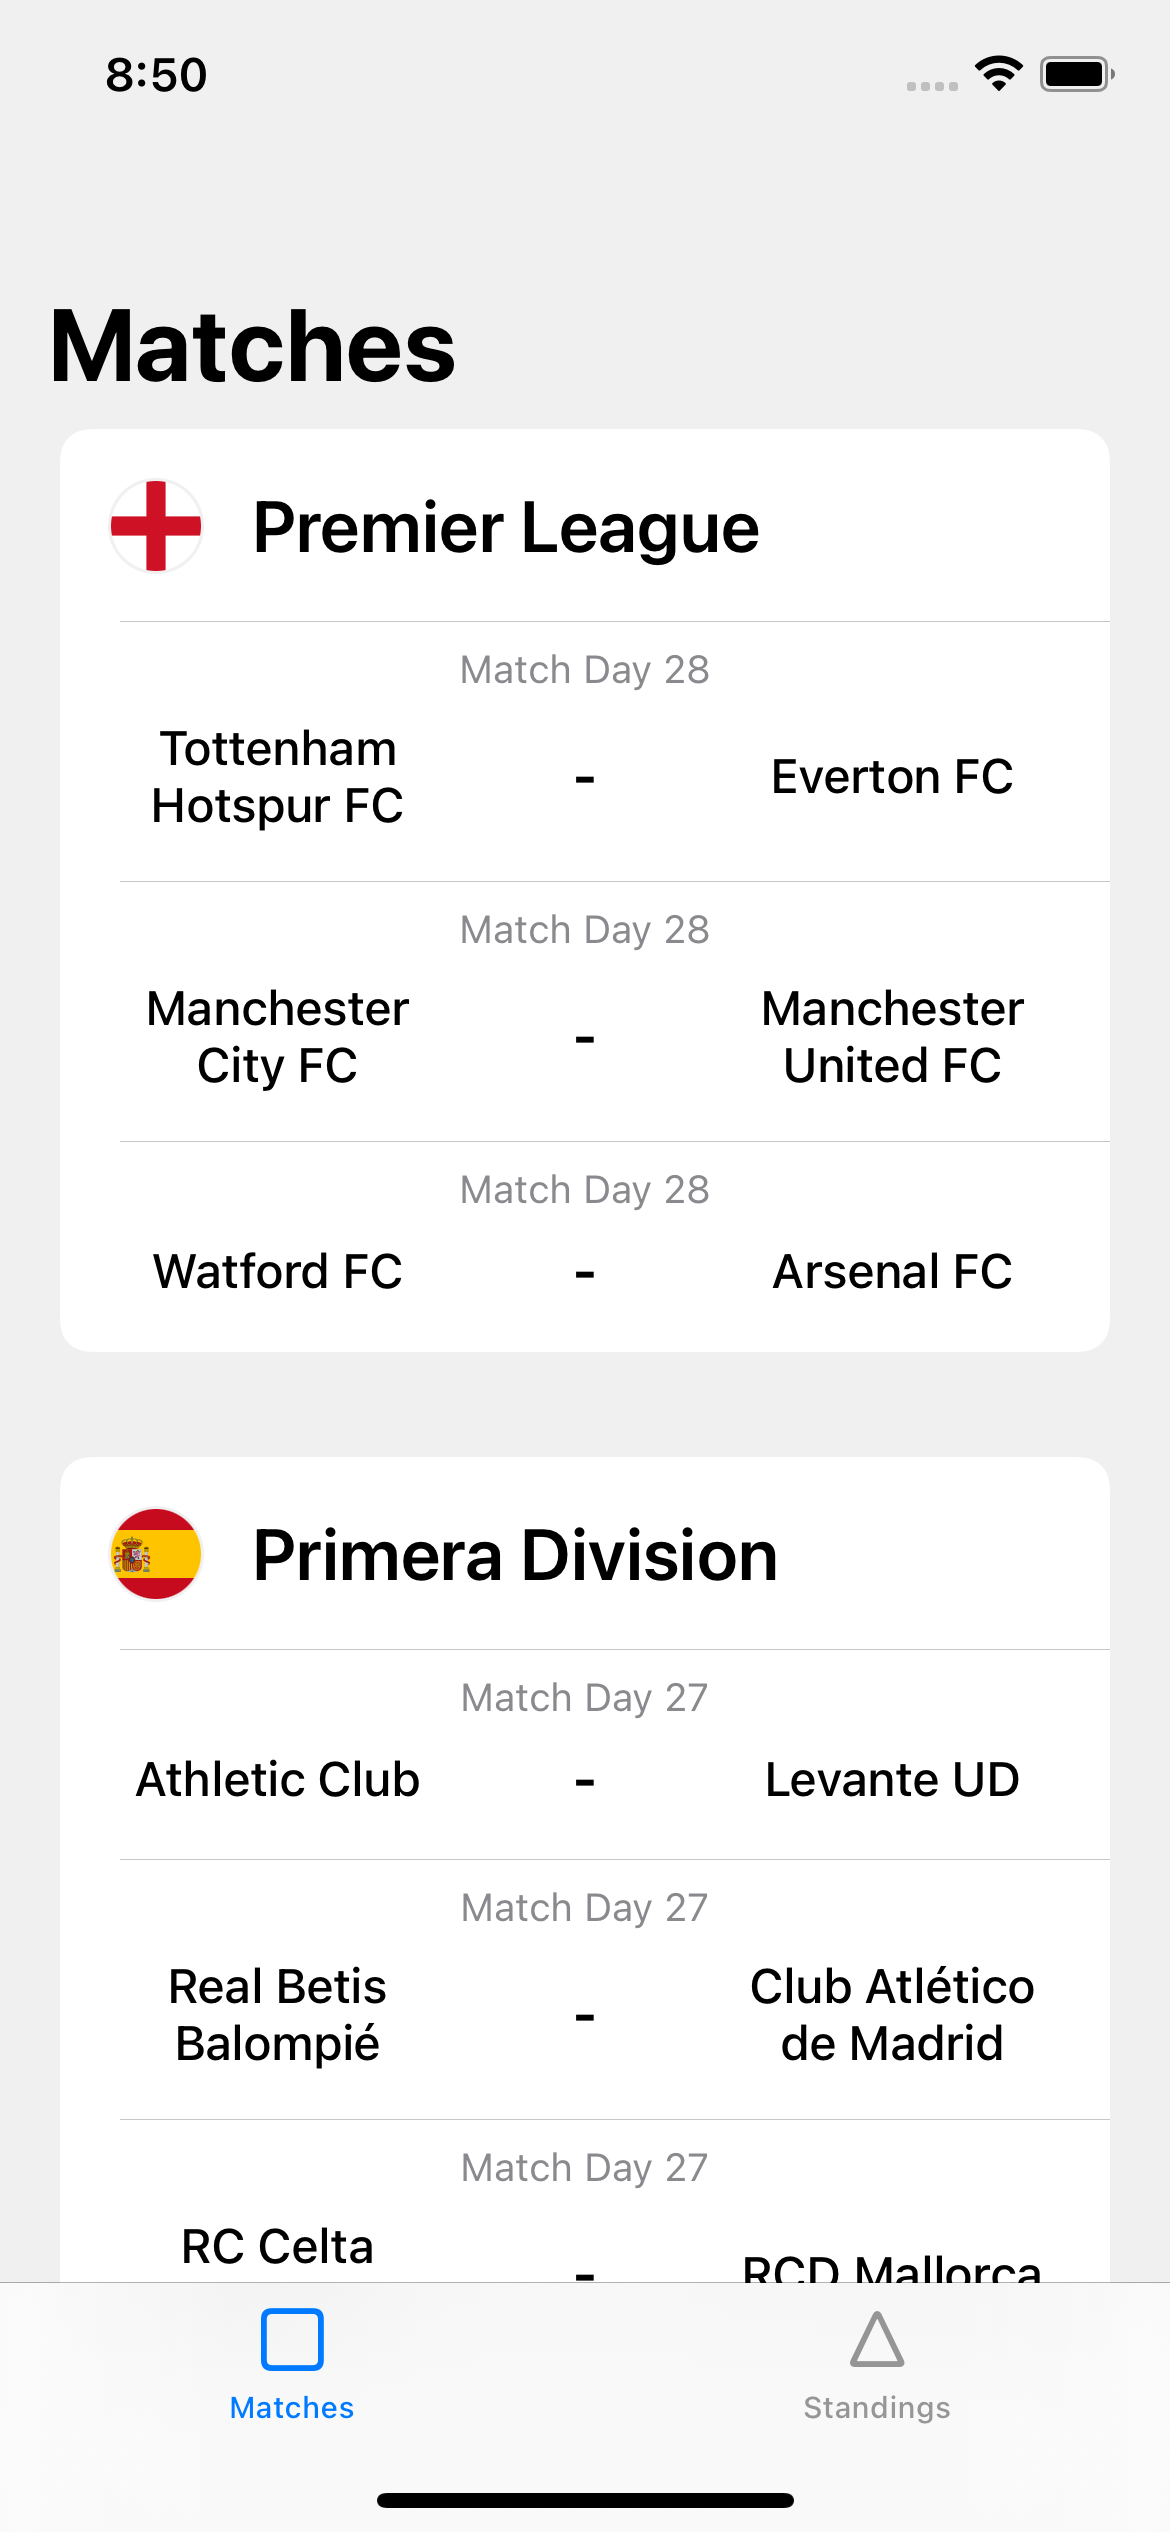
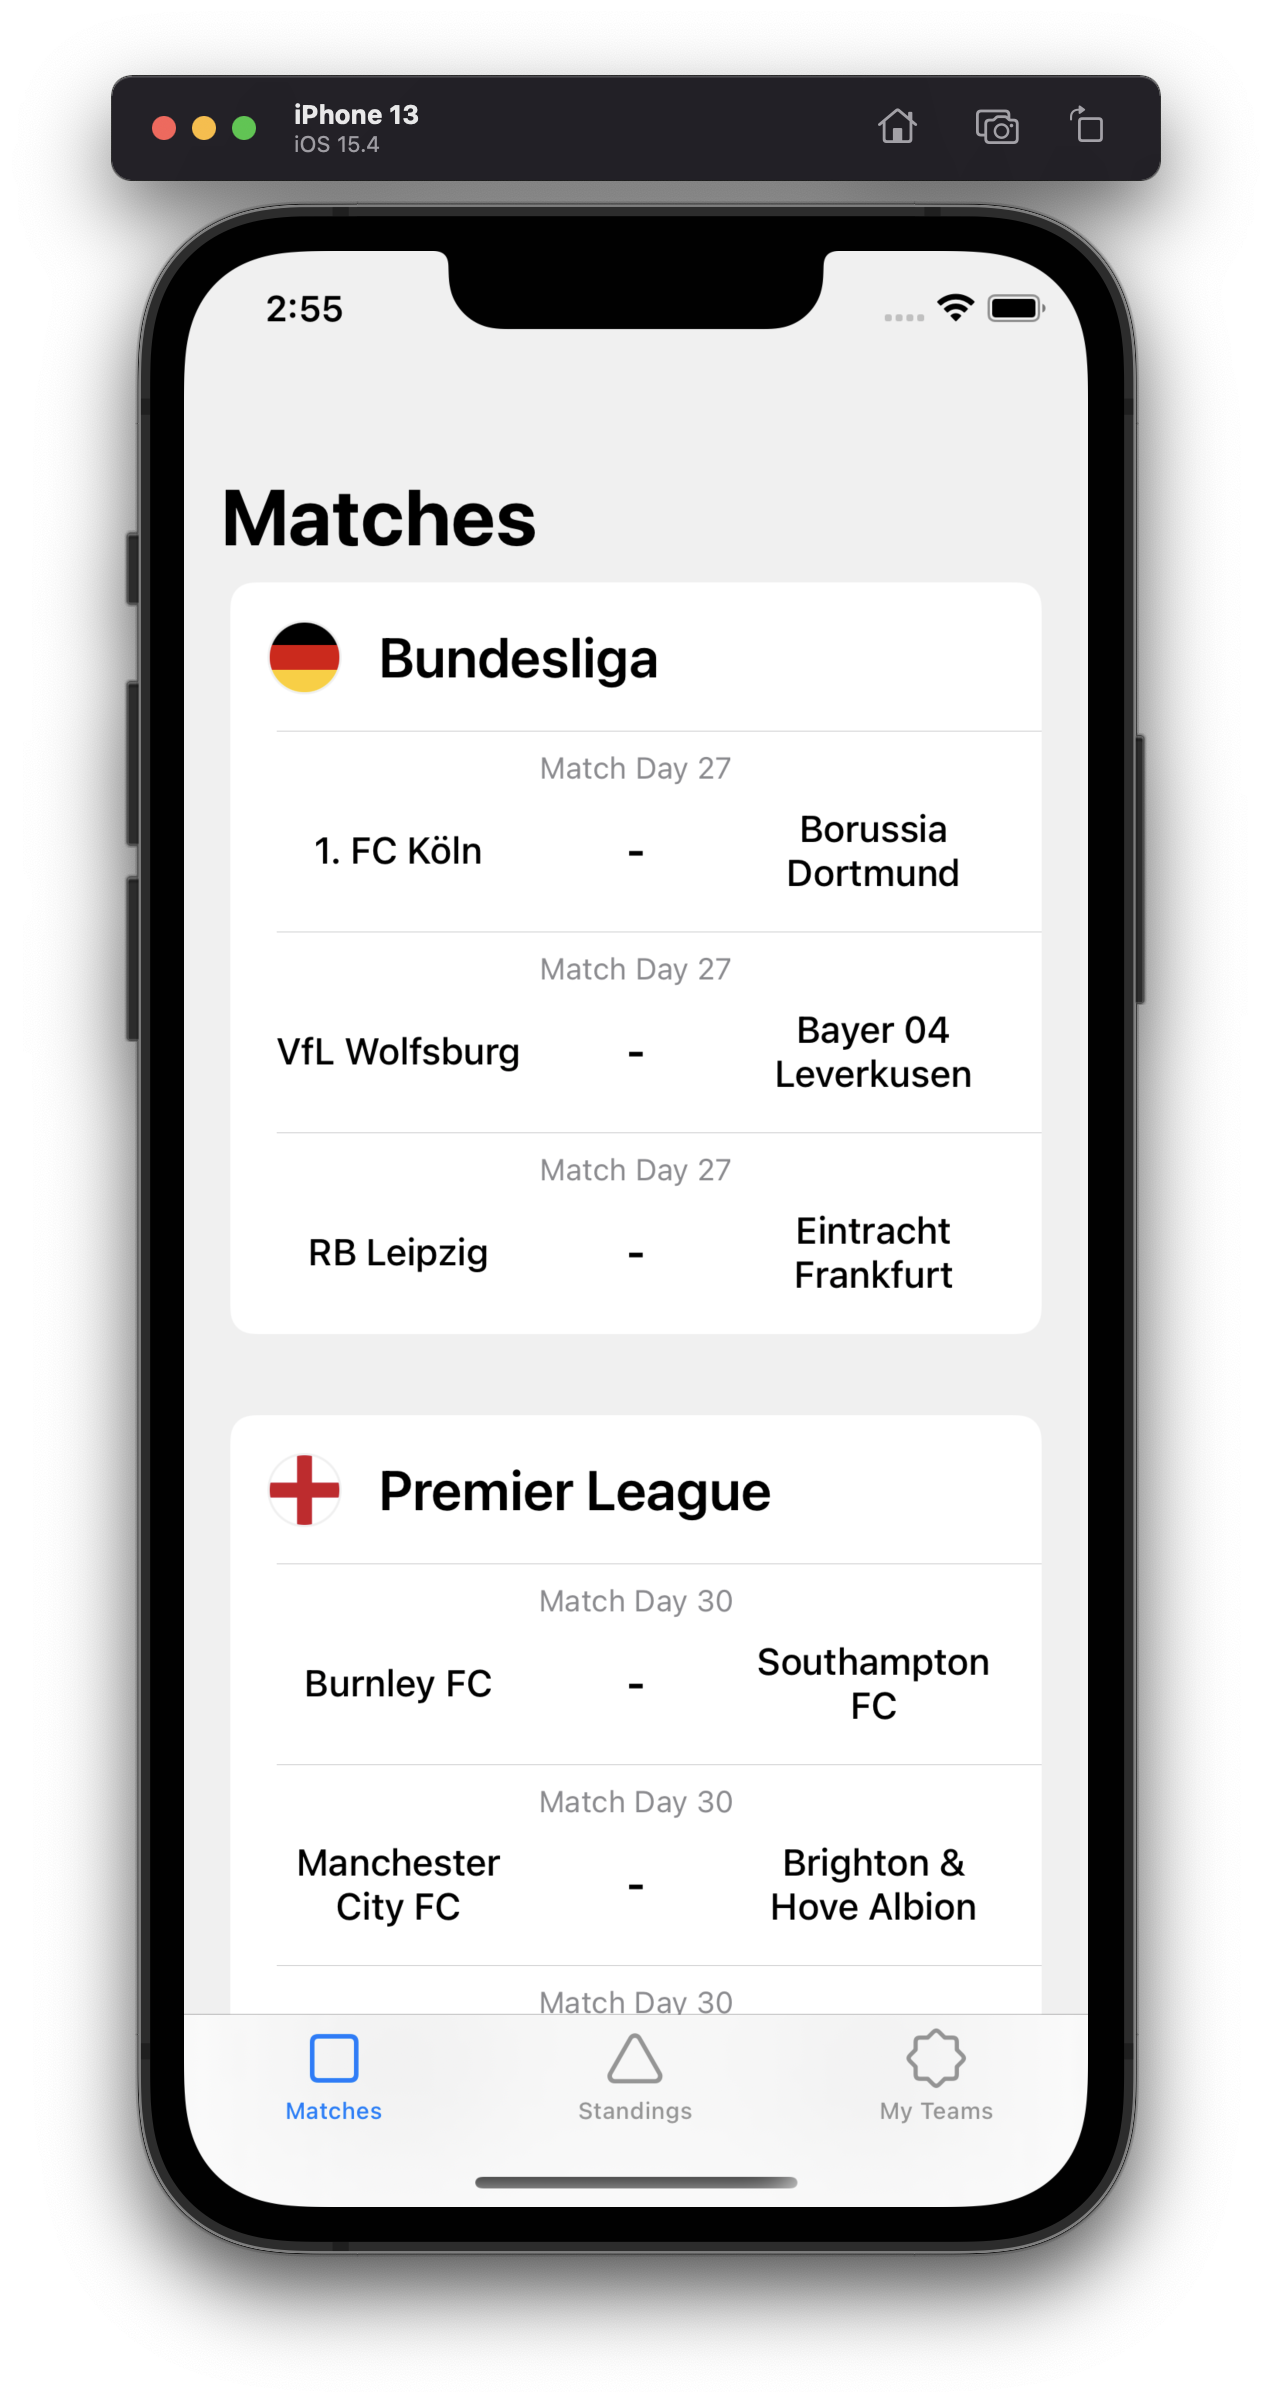
Update README and screenshots

diff --git a/README.md b/README.md
@@ -2,12 +2,12 @@
 A simple iOS app shows the latest matches and standings of Europe's top 5 leagues.
 
 ## Screens
-|Matches|Standings|
-|-------|---------|
-|![](./.github/matches.png?raw=true)|![](./.github/standings.png?raw=true)|
+|Matches|Standings|MyTeams|
+|-------|---------|-------|
+|![](./.github/matches.png?raw=true)|![](./.github/standings.png?raw=true)|![](./.github/myteams.png?raw=true)|
 
 ## Architecture
 [The Composable Architecture](https://github.com/pointfreeco/swift-composable-architecture) with UIKit.
 
 ## API
-[Football-data.org](https://www.football-data.org) via [FootballDataClient](https://github.com/Thieurom/FootballDataClient) library.
+[football-data.org](https://www.football-data.org) via [FootballDataClient](https://github.com/Thieurom/FootballDataClient) library.
